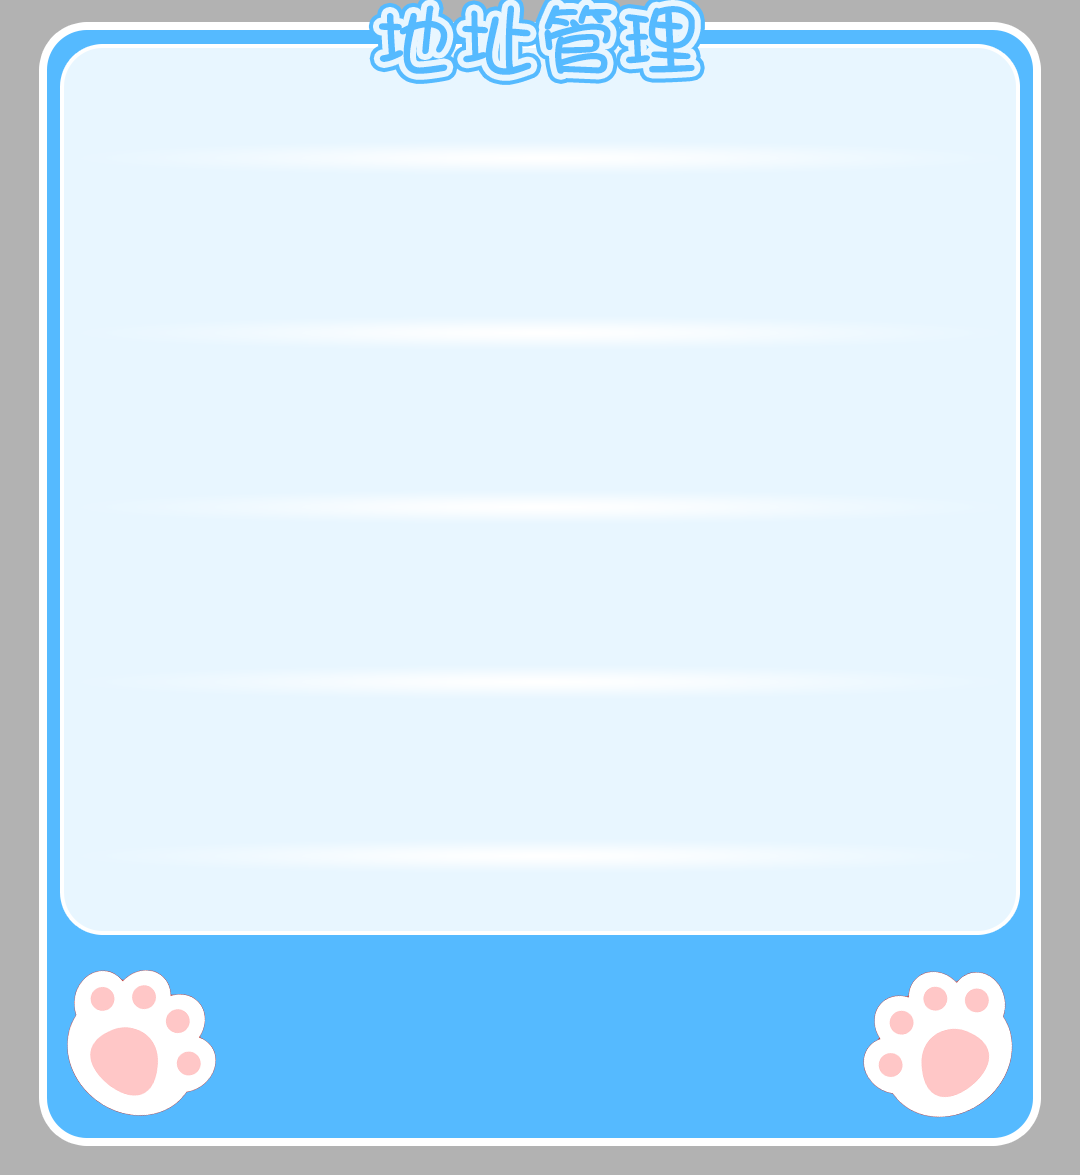
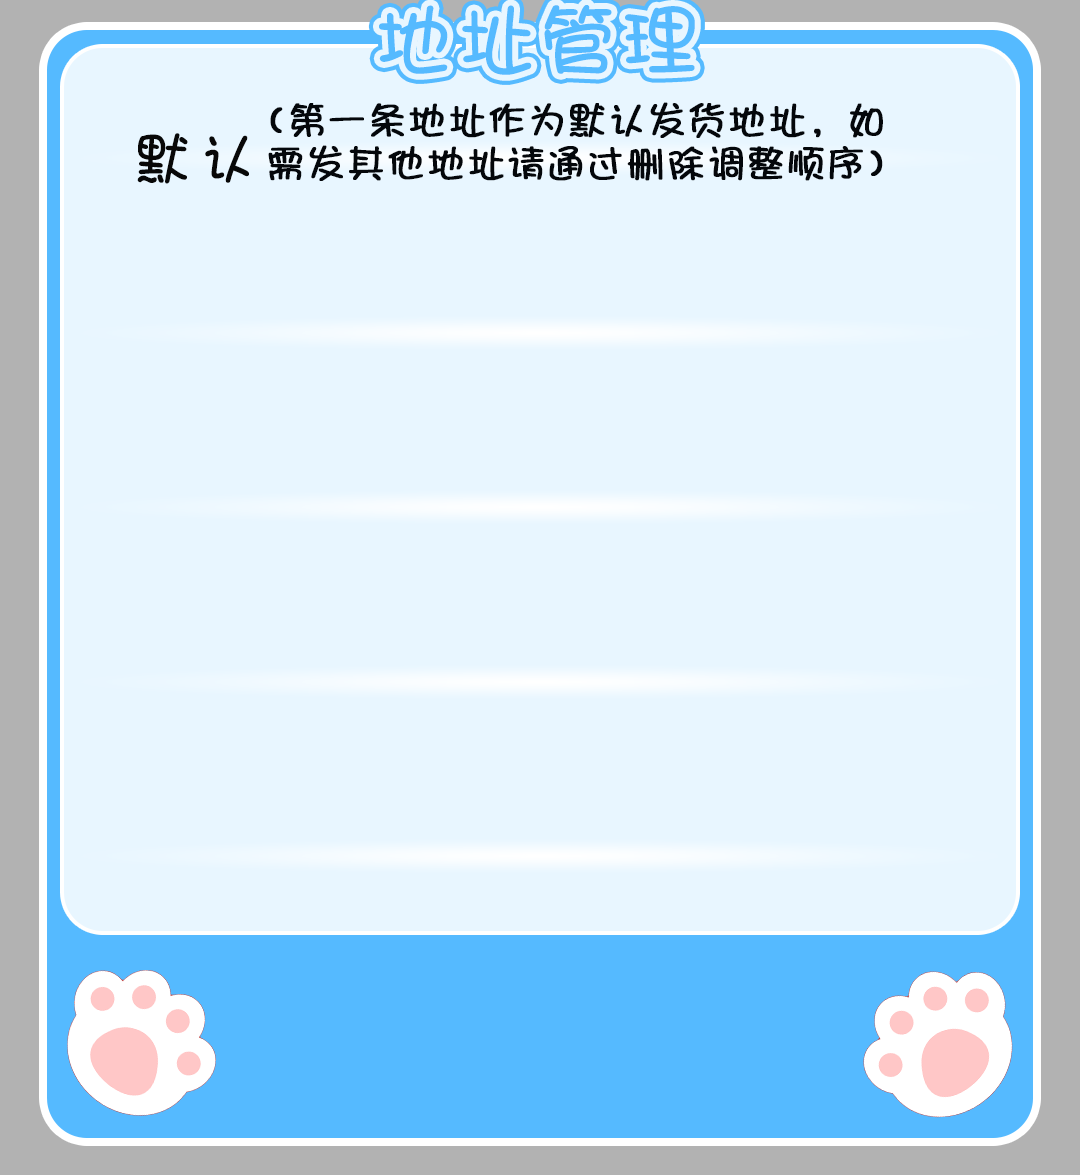
55

Changed region(s): [[0.1222, 0.0919, 0.825, 0.1532]]

diff --git a/client/src/components/Home.vue b/client/src/components/Home.vue
@@ -99,55 +99,59 @@ export default {
 
       switch(this.questid){
         case 0:
-          if (answer=='3') {
+          if (answer=='项链') {
             tureAnswer()
           }else{
             falseAnswer()
           };
           break;
         case 1:
-          if (answer=='天山六阳掌') {
+          if (answer=='冰镇果盘') {
             tureAnswer()
           }else{
             falseAnswer()
           };
           break;
         case 2:
-          if (answer=='30') {
+          if (answer=='忘川花海') {
             tureAnswer()
           }else{
             falseAnswer()
           };break;
         case 3:
-          if (answer=='舒尔') {
+          if (answer=='两败俱伤') {
             tureAnswer()
           }else{
             falseAnswer()
           };
           break;
         case 4:
-          if (answer=='球场没有球') {
+          if (answer=='大腿') {
             tureAnswer()
           }else{
             falseAnswer()
           };
           break;
         case 5:
-          if (answer=='轻功') {
+          if (answer=='喵呜') {
             tureAnswer()
           }else{
             falseAnswer()
           };
           break;
         case 6:
-          if (answer=='4') {
+          if (answer=='大衍天玄剑') {
             tureAnswer()
           }else{
             falseAnswer()
           };
           break;
         default:
-        
+         if (answer=='大衍天玄剑') {
+            tureAnswer()
+          }else{
+            falseAnswer()
+          };
       }
 
       function tureAnswer(){
@@ -189,17 +193,15 @@ export default {
 
     hideQuest:function(id){
       this.showquest=false;
-      
     },
 
     getUserInfo:function(){
-      
     },
 
   },
   mounted () {  
     var now=Date.now();
-    var times=now-1514218816000;
+    var times=now-1516897384000;
     var questid=parseInt(times/86400000);
     this.questid=questid;
     //1514218816
@@ -207,27 +209,29 @@ export default {
     switch(questid)
     {
     case 0:
-      this.questtext="剧中的令儿一共出现了几次";
+      this.questtext="肖奈何一直在找的还魂丹是什么？(是一种首饰哦~)";
       break;
     case 1:
-      this.questtext="秦斩救开封的时候，用的绝招叫什么";
+      this.questtext="清雪为秦斩送去了什么解暑？(夏天最完美的零食！)";
       break;
     case 2:
-      this.questtext=" 秦斩带雨晨刷完辽国副本之后升到了多少级";
+      this.questtext="秦斩和雨晨在哪里一吻定情？(秦斩特意为雨晨准备的地方)";
       break;
     case 3:
-      this.questtext="秦斩穿越后，第一个抱宫主大腿的是谁";
+      this.questtext="舒尔和明月相拥而泣的时候用了什么成语描述自己？(都怪宫主这个负心汉)";
       break;
     case 4:
-      this.questtext="舒尔形容明月平胸时说了什么";
+      this.questtext="秦斩身上哪个部位最受大家欢迎？(很多人都抱过哦~)";
       break;
     case 5:
-      this.questtext="舒尔的绝技是什么";
+      this.questtext="舒尔找雨晨时说了什么将雨晨引了出来？(模拟了某种小动物)";
       break;
     case 6:
-      this.questtext=" 秦斩第一次说要跟雨晨双修，出现在第几集";
+      this.questtext="雨晨用来刺伤笑天真的剑的名字是什么？(秦斩送给她的礼物)";
       break;
     default:
+     this.questtext="雨晨用来刺伤笑天真的剑的名字是什么？(秦斩送给她的礼物)";
+      break;
     
     }
 

diff --git a/client/src/components/block/orderlist.vue b/client/src/components/block/orderlist.vue
@@ -140,6 +140,13 @@ var orderList={};
         }).then((response) => {
           console.log(response.data.data);
           this.addresss=response.data.data;
+          if (this.addresss.length==0) {
+            alert('请先去我的页面填写地址信息！')
+            this.$router.push({
+              name:'mypage'
+            })
+
+          };
           localStorage.def_add_id=this.addresss[0].id;
           // this.results = response.data.data;
     

diff --git a/client/src/components/Mypage.vue b/client/src/components/Mypage.vue
@@ -244,6 +244,9 @@ export default {
           }
         }).then((response) => {
           console.log(response.data);
+          if (response.data.code!=200) {
+            alert(response.data.error);
+          };
           this.showaddadd=false;
           // this.results = response.data.data;
           url = buildUrl('user/getUserAddress');
